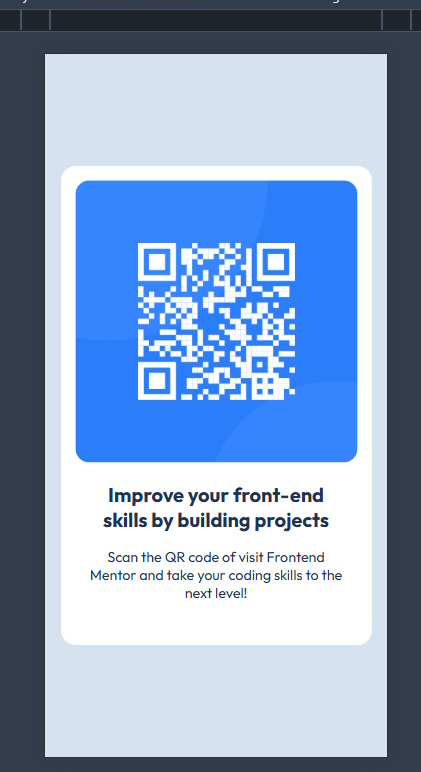
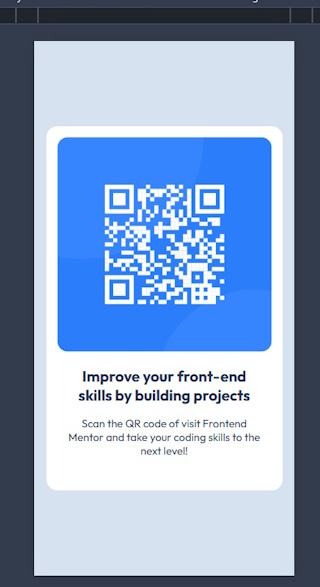
Updated the Readme.md

diff --git a/index.html b/index.html
@@ -17,14 +17,11 @@
 </head>
 <body>
 
-<main>
-
-    <div class="card">
-        <img src="/images/image-qr-code.png" alt="QR Code">
-        <h2>Improve your front-end skills by building projects</h2>
-        <p>Scan the QR code of visit Frontend Mentor and take your coding skills to the next level!</p>
-    </div>
-
+<main class="card">
+    <img src="/images/image-qr-code.png" alt="QR Code">
+    <h2>Improve your front-end skills by building projects</h2>
+    <p>Scan the QR code of visit Frontend Mentor and take your coding skills to the next level!</p>
 </main>
+
 </body>
 </html>

diff --git a/README.md b/README.md
@@ -1,35 +1,30 @@
-# Frontend Mentor - QR code component solution
+# QR Code
 
-This is a solution to the [QR code component challenge on Frontend Mentor](https://www.frontendmentor.io/challenges/qr-code-component-iux_sIO_H). Frontend Mentor challenges help you improve your coding skills by building realistic projects. 
+A solution to the Frontend Mentor QR Code component onboarding project.
 
 ## Table of contents
 
 - [Overview](#overview)
-  - [Screenshot](#screenshot)
-  - [Links](#links)
+    - [Screenshot](#screenshot)
+    - [Links](#links)
 - [My process](#my-process)
-  - [Built with](#built-with)
-  - [What I learned](#what-i-learned)
-  - [Continued development](#continued-development)
-  - [Useful resources](#useful-resources)
+    - [Built with](#built-with)
+    - [What I learned](#what-i-learned)
+    - [Continued development](#continued-development)
 - [Author](#author)
-- [Acknowledgments](#acknowledgments)
-
-**Note: Delete this note and update the table of contents based on what sections you keep.**
 
 ## Overview
+
+A basic HTML and CSS only implementation of the Frontend Mentor
+[QR code component challenge](https://www.frontendmentor.io/challenges/qr-code-component-iux_sIO_H).
+It was a great first test as part of the on-boarding process to Frontend Mentor.
 
 ### Screenshot
 
 ![](./screenshot.jpg)
 
-Add a screenshot of your solution. The easiest way to do this is to use Firefox to view your project, right-click the page and select "Take a Screenshot". You can choose either a full-height screenshot or a cropped one based on how long the page is. If it's very long, it might be best to crop it.
-
-Alternatively, you can use a tool like [FireShot](https://getfireshot.com/) to take the screenshot. FireShot has a free option, so you don't need to purchase it. 
-
-Then crop/optimize/edit your image however you like, add it to your project, and update the file path in the image above.
-
-**Note: Delete this note and the paragraphs above when you add your screenshot. If you prefer not to add a screenshot, feel free to remove this entire section.**
+The mobile view of the component, which has a responsive design to the desktop
+as well.
 
 ### Links
 
@@ -38,66 +33,60 @@ Then crop/optimize/edit your image however you like, add it to your project, and
 
 ## My process
 
+I started with the HTML content before adding any styles, and used the Chrome dev
+tools to do start with the mobile layout before testing it in the desktop view.
+
 ### Built with
 
 - Semantic HTML5 markup
 - CSS custom properties
 - Flexbox
-- CSS Grid
-- Mobile-first workflow
-- [React](https://reactjs.org/) - JS library
-- [Next.js](https://nextjs.org/) - React framework
-- [Styled Components](https://styled-components.com/) - For styles
-
-**Note: These are just examples. Delete this note and replace the list above with your own choices**
+- Using a mobile-first workflow
+- And testing out the non-commercial version of [WebStorm](https://www.jetbrains.com/webstorm/)
 
 ### What I learned
 
-Use this section to recap over some of your major learnings while working through this project. Writing these out and providing code samples of areas you want to highlight is a great way to reinforce your own knowledge.
+It was great to tryout [WebStorm](https://www.jetbrains.com/webstorm/)
+for the first time as I have been using [VSCode](https://code.visualstudio.com/)
+for quite some time. Using its built-in test server for previewing and autoloading
+changes.
 
-To see how you can add code snippets, see below:
+I used minimal, semantic HTML:
 
 ```html
-<h1>Some HTML code I'm proud of</h1>
+
+<main class="card">
+    <img src="/images/image-qr-code.png" alt="QR Code">
+    <h2>Improve your front-end skills by building projects</h2>
+    <p>
+        Scan the QR code of visit Frontend Mentor and take your coding skills
+        to the next level!
+    </p>
+</main>
 ```
+
+I experimented with a `box-shaddow` for the `card` component and left it in the
+`css` as a comment. I would probably use PostCSS to process this out for a production
+build. Similarly, I left a stub of a media query in for anything bigger than mobile.
+
 ```css
-.proud-of-this-css {
-  color: papayawhip;
+.card {
+    margin: 1.1em;
+    background-color: var(--colour-white);
+    border-radius: 1em;
+    max-width: 320px;
+    padding: 1em 1em 2em;
+    /*box-shadow: 0 0 1em var(--colour-slate-500);*/
+    color: var(--colour-slate-900);
 }
 ```
-```js
-const proudOfThisFunc = () => {
-  console.log('🎉')
-}
-```
-
-If you want more help with writing markdown, we'd recommend checking out [The Markdown Guide](https://www.markdownguide.org/) to learn more.
-
-**Note: Delete this note and the content within this section and replace with your own learnings.**
 
 ### Continued development
 
-Use this section to outline areas that you want to continue focusing on in future projects. These could be concepts you're still not completely comfortable with or techniques you found useful that you want to refine and perfect.
-
-**Note: Delete this note and the content within this section and replace with your own plans for continued development.**
-
-### Useful resources
-
-- [Example resource 1](https://www.example.com) - This helped me for XYZ reason. I really liked this pattern and will use it going forward.
-- [Example resource 2](https://www.example.com) - This is an amazing article which helped me finally understand XYZ. I'd recommend it to anyone still learning this concept.
-
-**Note: Delete this note and replace the list above with resources that helped you during the challenge. These could come in handy for anyone viewing your solution or for yourself when you look back on this project in the future.**
+I would definitely suggest revisiting the use of a subtle `box-shaddow` for 
+the `card` to make it stand out more. But this was beyond the spec of this 
+exercise.
 
 ## Author
 
-- Website - [Add your name here](https://www.your-site.com)
-- Frontend Mentor - [@yourusername](https://www.frontendmentor.io/profile/yourusername)
-- Twitter - [@yourusername](https://www.twitter.com/yourusername)
-
-**Note: Delete this note and add/remove/edit lines above based on what links you'd like to share.**
-
-## Acknowledgments
-
-This is where you can give a hat tip to anyone who helped you out on this project. Perhaps you worked in a team or got some inspiration from someone else's solution. This is the perfect place to give them some credit.
-
-**Note: Delete this note and edit this section's content as necessary. If you completed this challenge by yourself, feel free to delete this section entirely.**
+- Frontend Mentor - [Francis Judge](https://www.frontendmentor.io/profile/FJSolutions)
